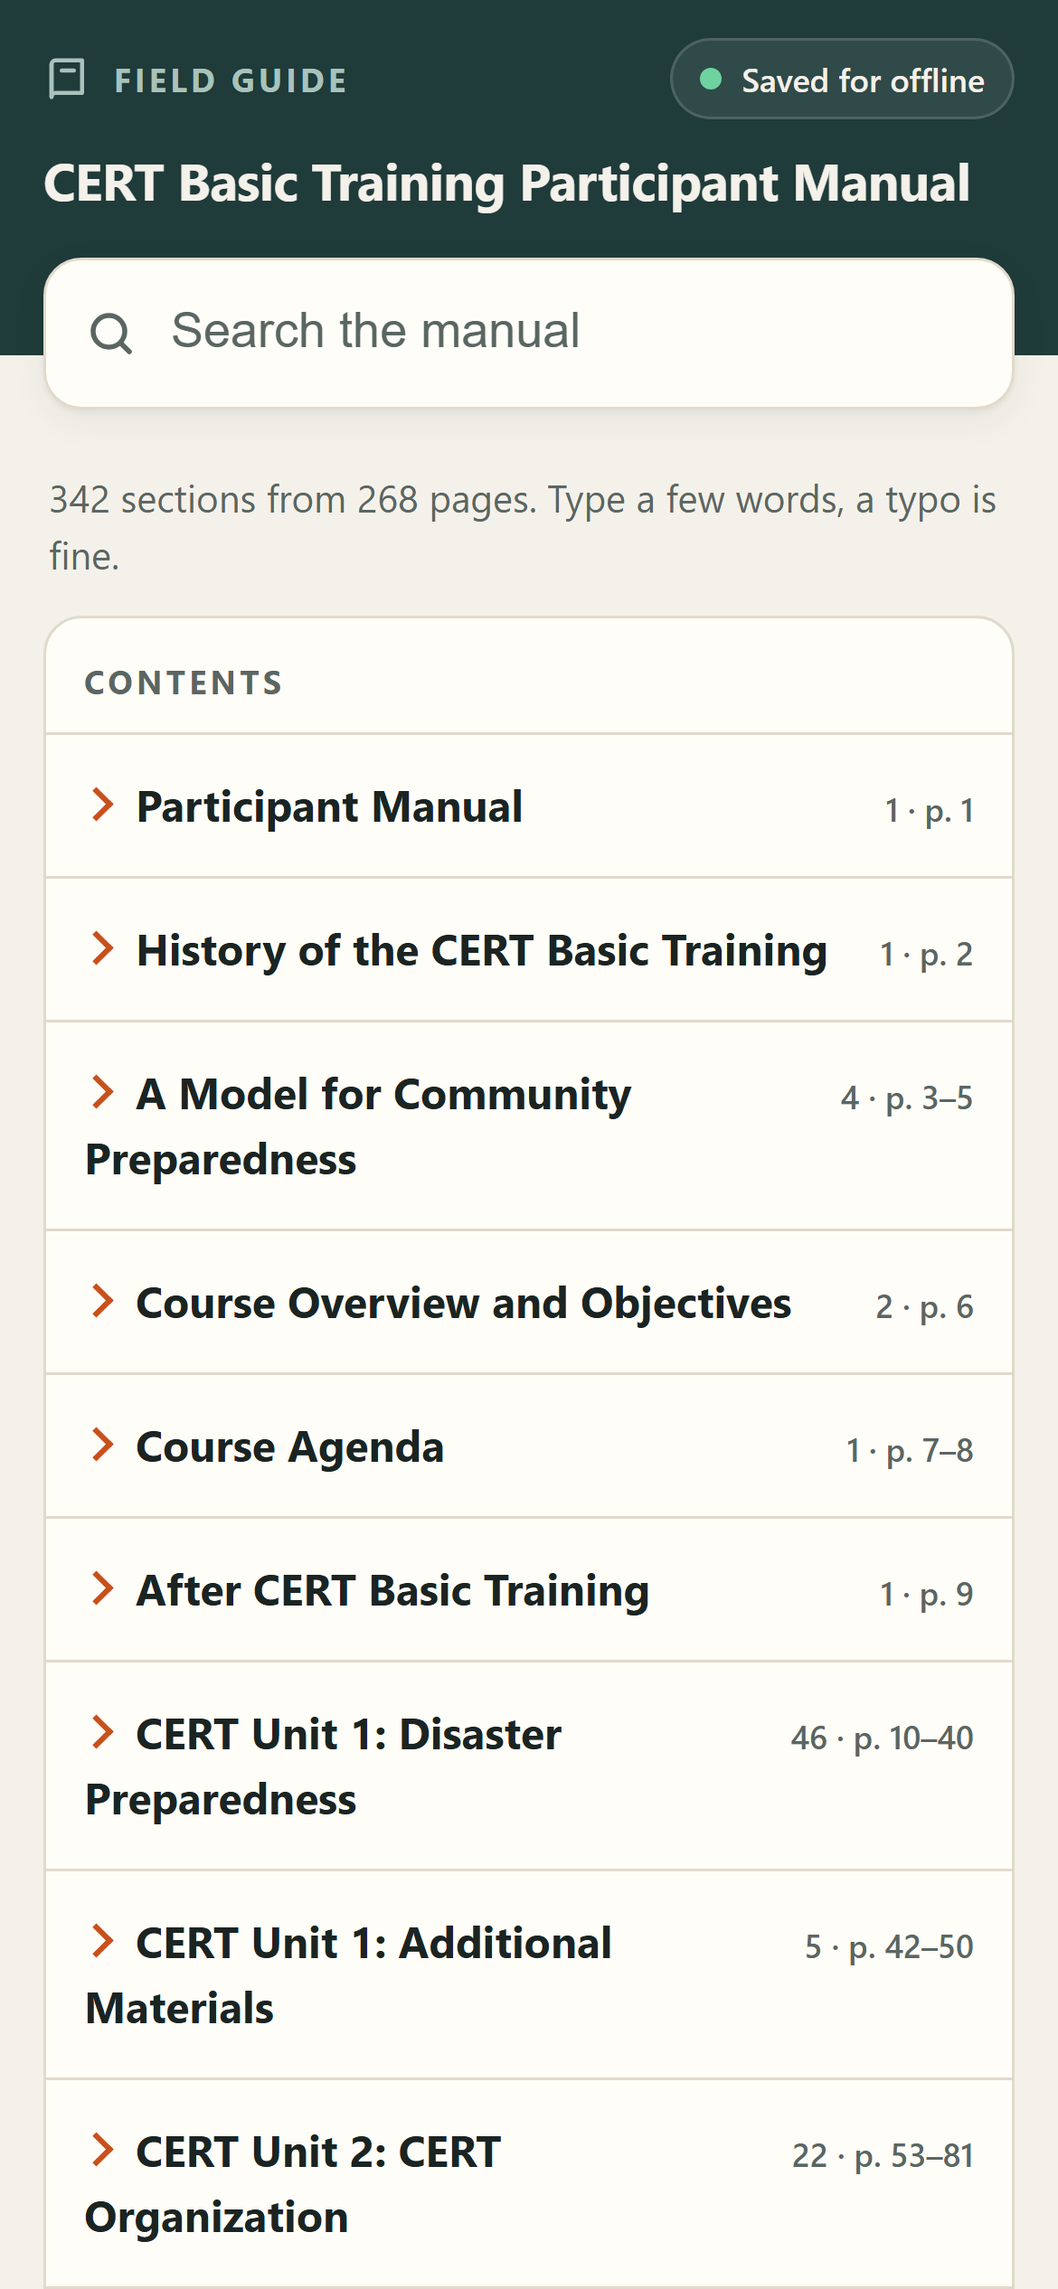
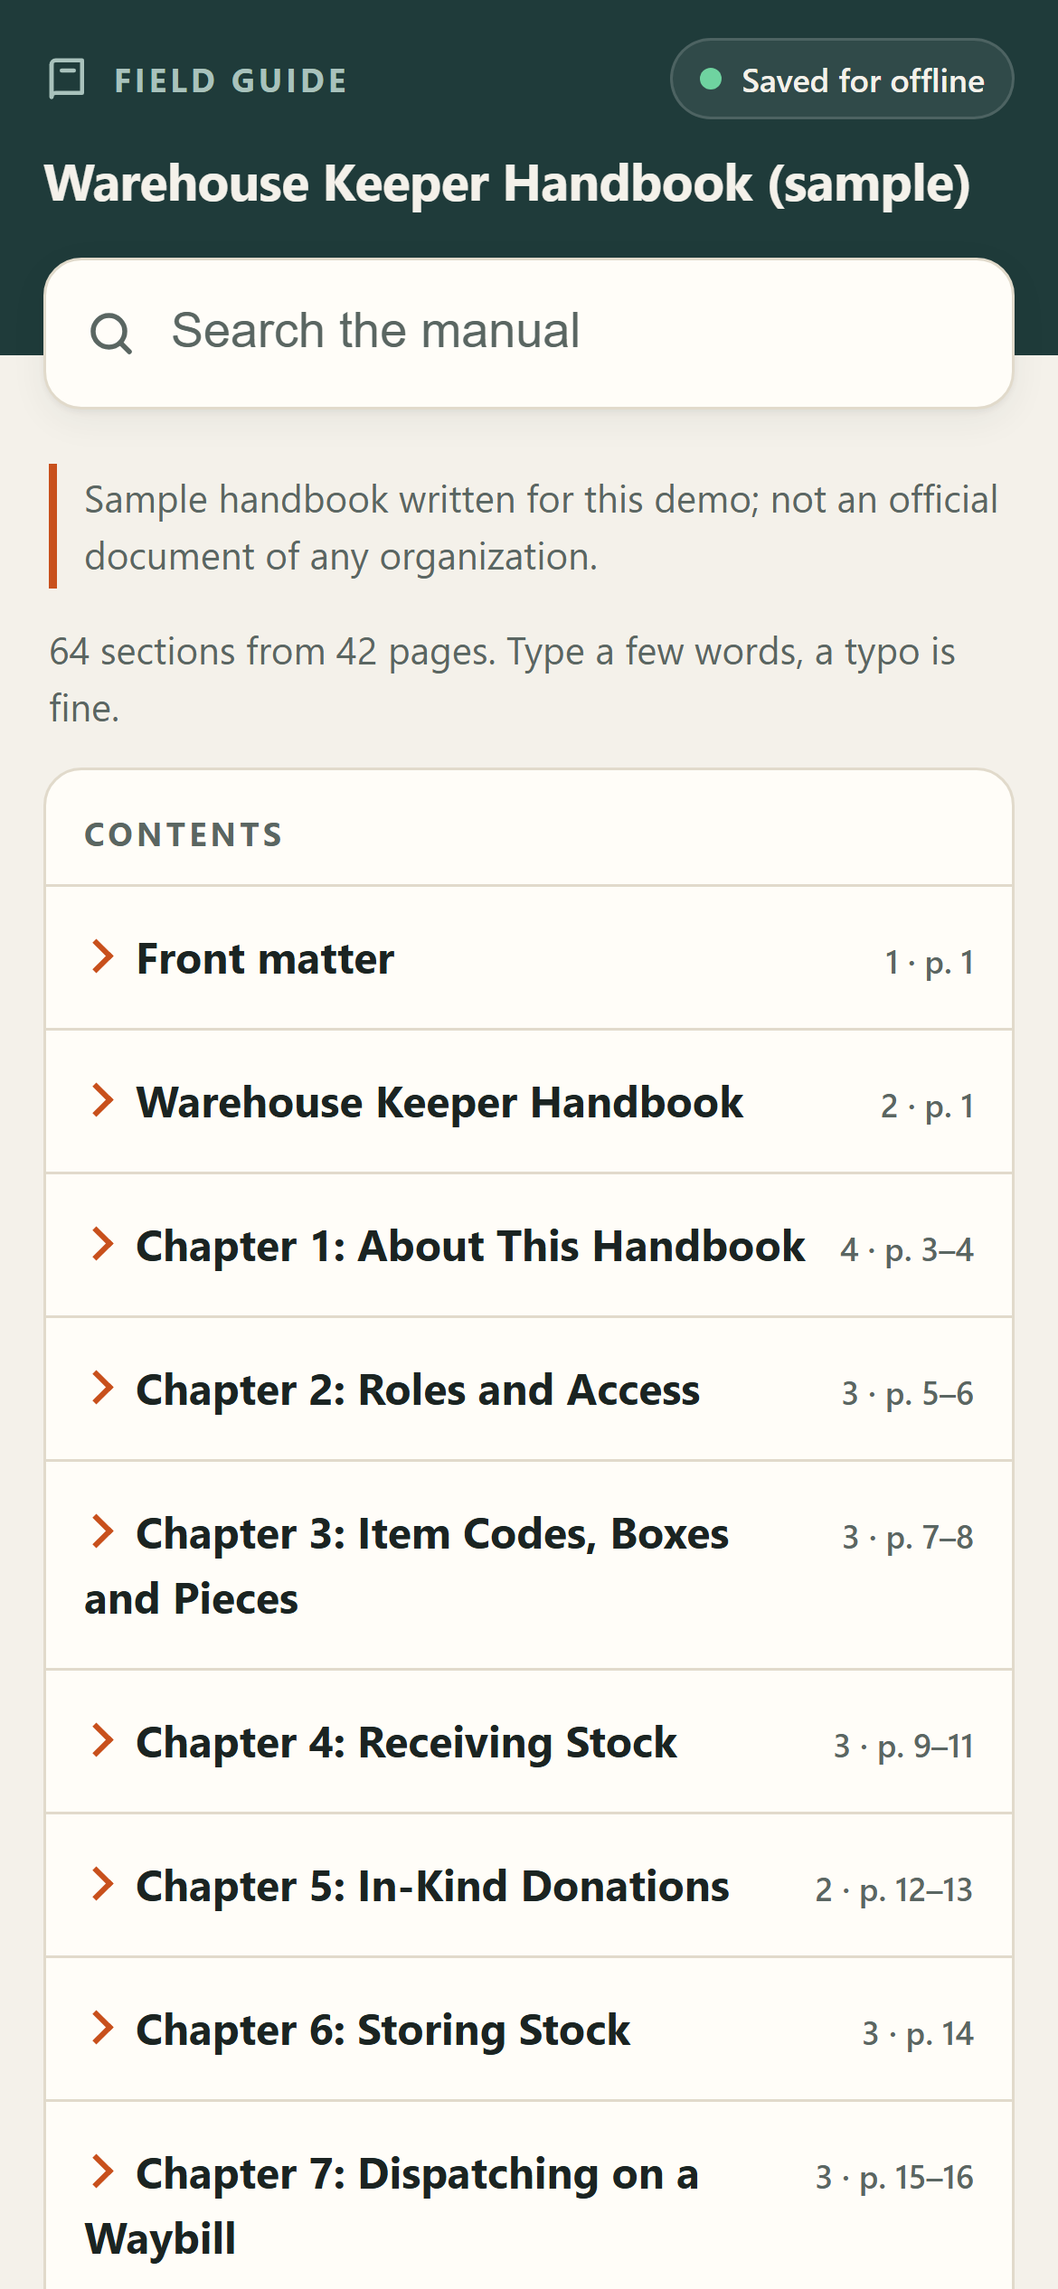
README, screenshots and outputs for the handbook demo; deterministic handbook PDF

diff --git a/handbook/make_handbook.py b/handbook/make_handbook.py
@@ -436,10 +436,11 @@ def build(out: Path = DEFAULT_OUT) -> dict:
     headers_footers(lay)
     lay.doc.set_toc(lay.toc)
     lay.doc.set_metadata({"title": "Warehouse Keeper Handbook (sample)", "author": "offline-field-guide demo",
-                          "subject": "Sample handbook written for a software demo; not an official document"})
+                          "subject": "Sample handbook written for a software demo; not an official document",
+                          "creationDate": "D:20261121000000Z", "modDate": "D:20261121000000Z"})
     out.parent.mkdir(parents=True, exist_ok=True)
     pages = lay.doc.page_count
-    lay.doc.save(str(out), garbage=3, deflate=True)
+    lay.doc.save(str(out), garbage=3, deflate=True, no_new_id=True)
     lay.doc.close()
     return {"pages": pages, "breaks": lay.breaks, "tables_at_top": lay.tables_at_top,
             "tables_split": lay.tables_split}

diff --git a/README.md b/README.md
@@ -2,61 +2,90 @@
 
 Give it a long PDF manual and it builds a searchable guide that keeps working on a phone with no connection.
 
-**Live demo:** https://tonihaddad.github.io/offline-field-guide/
+**Live demo:** https://tonihaddad.github.io/offline-field-guide/ (the sample handbook; the FEMA manual is one tap away at [`/cert/`](https://tonihaddad.github.io/offline-field-guide/cert/))
 
 <table>
 <tr>
-<td><img src="docs/results.png" width="250" alt="Search results for a misspelled query"></td>
-<td><img src="docs/section.png" width="250" alt="An opened section with highlighted terms and its source page"></td>
-<td><img src="docs/offline-search.png" width="250" alt="The same search working with the network off"></td>
+<td><img src="docs/results.png" width="250" alt="Search results for expired cans"></td>
+<td><img src="docs/section.png" width="250" alt="An opened procedure with highlighted terms and its source page"></td>
+<td><img src="docs/offline-search.png" width="250" alt="A misspelled search working with the network off"></td>
 </tr>
 <tr>
-<td>"turn of gass": typos are fine</td>
-<td>Opened section, terms highlighted, source page shown</td>
-<td>Same search with the network cut</td>
+<td>"expired cans"</td>
+<td>"damged box": the procedure, terms highlighted, source page shown</td>
+<td>"who aproves write off" with the network cut</td>
 </tr>
 </table>
 
-These are real screenshots of the guide built from the 268-page FEMA CERT
-Basic Training Participant Manual, at phone width. More in [`docs/`](docs/)
-(dark mode, the original-page view, the contents list).
+Real phone-width screenshots of the guide built from the sample Warehouse
+Keeper Handbook. More in [`docs/`](docs/): the contents list, the original-page
+view, dark mode, and the FEMA CERT manual guide.
 
 ## The need
 
-A field officer needs one instruction from a 200-page manual: how to shut
-off the gas, how many drops of bleach per gallon, how to apply a tourniquet.
-The manual is a PDF that is slow to open on a phone and has no useful search,
-and the connection is poor or gone. This tool turns the PDF into a small web
+A humanitarian organization in Lebanon runs about forty warehouses. Its
+warehouse keepers receive, store and dispatch relief stock, often with basic
+computer skills, a phone, and power and internet that come and go. The rules
+they must follow (goods received notes, waybills, FEFO, boxes and pieces,
+damage reports that need approval) sit in a long PDF that is slow to open on a
+phone and has no useful search. This tool turns such a PDF into a small web
 app that is saved on the phone the first time it is opened, then answers
 short, misspelled questions in milliseconds with no network at all.
 
+## The two demo manuals
+
+| Manual | Pages | Why it is here |
+|---|---|---|
+| **Warehouse Keeper Handbook (sample)**, `manuals/warehouse-keeper-handbook.pdf` | 42 | The main demo, close to the real work. **I wrote it for this demo; it is not an official document of any organization.** All names, codes and figures are invented. `handbook/make_handbook.py` builds it from `handbook/handbook.txt`. |
+| **FEMA CERT Basic Training Participant Manual (2019)**, `manuals/cert-basic-training-participant-manual.pdf` | 268 | Proof that the pipeline works on a real PDF it was not written for. |
+
+The handbook covers receiving under a goods received note, in-kind donations,
+dispatch on a waybill, FEFO, boxes and pieces, transfers, damage reports and
+write-off approval, stock counts, expiry and low-stock checks, the purchase
+order sheet, working when the connection drops, roles, emergency
+distributions, and a short French section. Its layout deliberately has what
+real manuals have: a cover, a contents page, running headers and "Page N of
+42" footers, a numbered procedure that runs over a page break, exception tables
+that start at the top of a page, and tables continued over pages with the
+header row repeated. The generator reports where these happen and the tests
+check that the extractor handles each one.
+
 ## Try it
 
-Python 3.11+ and nothing else (Node only for the benchmark).
+Python 3.11+ (Node only for the benchmark).
 
 ```
 python -m venv .venv
 .venv/Scripts/activate            # source .venv/bin/activate on Linux/macOS
 pip install -e .
-fieldguide build manuals/cert-basic-training-participant-manual.pdf --out site && fieldguide serve site
+fieldguide build manuals/warehouse-keeper-handbook.pdf --out site --related "FEMA CERT manual=cert/" && fieldguide build manuals/cert-basic-training-participant-manual.pdf --out site/cert --related "Handbook=../" && fieldguide serve site
 ```
 
-Real output (the build takes about 1.5 minutes on a laptop, most of it table detection):
+Real output (the CERT build takes about 1.5 minutes, mostly table detection):
 
 ```
+Read 42 pages from warehouse-keeper-handbook.pdf
+Sections:        64
+Index terms:     1,021
+sections.json:   58 KB
+index.json:      27 KB
+Total download:  133 KB in 10 files
+Wrote site
 Read 268 pages from cert-basic-training-participant-manual.pdf
 Sections:        342
 Index terms:     3,612
 sections.json:   412 KB
 index.json:      177 KB
-Total download:  637 KB in 10 files
-Wrote site
+Total download:  638 KB in 10 files
+Wrote site/cert
 Serving site at http://localhost:8101/
 ```
 
-Open http://localhost:8101/ once, then turn the network off. On a phone,
-"Add to home screen" installs it as an app. Add `--page-images` to include a
+Open http://localhost:8101/ and the CERT guide once each, then turn the
+network off. "Switch guide" on the home screen moves between them offline. On
+a phone, "Add to home screen" installs it. Add `--page-images` to include a
 low-resolution image of every page behind a "Show original page" button.
+`python handbook/make_handbook.py` regenerates the handbook PDF.
 
 ## How it works
 
@@ -65,7 +94,7 @@ manual.pdf
    |  PyMuPDF: text lines with font size/weight and position, tables, outline
    v
 extract.py    drop running headers, footers and page numbers
-   |          (same text in the top/bottom band on 3+ pages, or "Page 7-20")
+   |          (same text in the top/bottom band on 3+ pages, or "Page 7 of 42")
    v
 structure.py  headings from the PDF outline + font size/weight
    |          one section per heading; paragraphs, numbered steps, bullets
@@ -74,45 +103,56 @@ structure.py  headings from the PDF outline + font size/weight
 index.py      BM25 index built at build time (title words weighted x3)
    v
 site/         index.html, app.js, search.js, sw.js, manifest, data/*.json
-              [pages/p1.jpg ... with --page-images]
+site/cert/    a second guide, with its own service worker and cache
 ```
 
 | Part | What it does |
 |---|---|
-| Page breaks | Headers and footers are removed first, so the last line of page N meets the first line of page N+1. A step or paragraph that has not finished its sentence continues; "Step 6" after "Step 5" extends the same procedure. In the CERT manual the tourniquet steps (pages 102-103) and the 9-step size-up (pages 64-65) cross a page break and come out as one list. |
-| Tables | Found with PyMuPDF's table finder; their cells are kept out of the text flow, so a bold header row is never mistaken for a heading. A table at the top of the next page stays with its section, and a table split over two pages is merged with its repeated header row dropped. |
-| Search | `search.js`, about 180 lines of plain JavaScript, no dependencies. BM25 over the sections; each query word also matches words that start with it (0.8 weight) and, when nothing matches, words one typo away (two for long words). A section that matches every query word ranks higher. |
-| Offline | The service worker caches every file on first load (the list and a content hash are written in at build time) and serves from the cache afterwards. The status pill checks the cache and the server, so it says "Offline, saved copy" when it really is. |
-| Same tokenizer twice | Python builds the index and JavaScript queries it, so both tokenizers must agree. A test runs both on the same strings. |
+| Page breaks | Headers and footers are removed first, so the last line of page N meets the first line of page N+1. A step or paragraph that has not finished its sentence continues; step 6 after step 5 extends the same procedure. |
+| Tables | Found with PyMuPDF's table finder; their cells are kept out of the text flow, so a bold header row is never mistaken for a heading. A table at the top of the next page stays with its section, and a table split over pages is merged with its repeated header row dropped. |
+| Search | `search.js`, about 180 lines of plain JavaScript, no dependencies. BM25 over the sections; each query word also matches words that start with it and, when nothing matches, words one typo away (two for long words). Accents are ignored, so "reception" finds "réception". |
+| Offline | Each guide's service worker caches every file of that guide on first load and serves from the cache afterwards. Caches are named per guide, so the two guides on one site never delete each other's files. |
 
 ## Results
 
-`node bench/run_bench.js site` runs the shipped `search.js` under Node on 26
-lookups I wrote after reading the manual ([`bench/questions.json`](bench/questions.json)),
-each with the PDF page(s) that hold the answer. A hit means the opened section
-contains an answer page and is at most 6 pages long. Output of the last run:
+`node bench/run_bench.js <site> <questions>` runs the shipped `search.js`
+under Node. A hit means the opened section contains a page that holds the
+answer and is at most 6 pages long.
+
+| | Handbook (new) | FEMA CERT manual |
+|---|---|---|
+| Questions | 23 (20 English, 3 French) | 26 |
+| Top-1 accuracy | **17/23 (74%)** | 25/26 (96%), unchanged |
+| Top-3 accuracy | **20/23 (87%)** | 26/26 (100%), unchanged |
+| Index size | 27 KB (8 KB gzipped) | 177 KB (51 KB gzipped) |
+| Download, no page images | 134 KB, 10 files | 643 KB, 10 files |
+| Download, with page images | 1.04 MB, 52 files | 7.16 MB, 278 files |
+| Search time, median / p95 | 0.02 / 0.53 ms | 0.04 / 2.15 ms |
+
+How the handbook questions were made: I wrote both the handbook and its
+questions, so this is not an independent test. I wrote the 23 questions the
+way a keeper might type them (three misspelled, three in French) after writing
+the handbook and **before running any search on it**, each with a phrase from
+the handbook that answers it; `bench/resolve_pages.py` turns the phrases into
+page numbers. I did not change any rule or label after seeing the results. The
+CERT questions and engine are the same as in the first version, so its numbers
+did not change.
+
+Offline proof, `python scripts/offline_check.py` (Playwright, headless
+Chromium, phone viewport): it opens both guides online, cuts the network,
+reloads the handbook, searches and opens a result, then switches to the CERT
+guide with the network still off and does the same.
 
 ```
-Questions:            26
-Top-1 accuracy:       25/26 (96%)
-Top-3 accuracy:       26/26 (100%)
-Sections:             342 from 268 pages
-Index size:           177 KB (51 KB gzipped)
-Download, no images:  641 KB in 10 files (189 KB gzipped)
-Download, with images: 7.16 MB in 278 files (page images 6.53 MB)
-Search time:          median 0.02 ms, p95 0.78 ms (780 runs, Node v24.19.0)
-```
-
-Search time varies between runs (p95 was between 0.8 and 3.3 ms across my runs); queries
-with a typo are the slow ones because they scan the vocabulary.
-
-Offline proof, `python scripts/offline_check.py` (Playwright, headless Chromium,
-phone viewport): it loads the site, waits for the service worker, cuts the
-network, reloads, searches with typos and opens a result.
-
-```
-PASS  service worker active, 278 files cached
-PASS  page reloads with the network off
+PASS  /: service worker active, caches hold [52] files
+PASS  /cert/: service worker active, caches hold [52, 278] files
+PASS  / opens with the network off: 'Warehouse Keeper Handbook (sample)'
+PASS  status shows offline ('Offline · saved copy')
+PASS  a request outside the cache fails (really offline)
+PASS  search 'damged box' offline: 20 results, top: 'Terms Used in This Handbook'
+PASS  opened section 'Terms Used in This Handbook' with 6 highlighted terms
+PASS  shows the source page ('Page 33 of the original')
+PASS  /cert/ opens with the network off: 'CERT Basic Training Participant Manual'
 PASS  status shows offline ('Offline · saved copy')
 PASS  a request outside the cache fails (really offline)
 PASS  search 'shut of gass' offline: 20 results, top: 'Natural Gas Shutoff'
@@ -121,60 +161,61 @@ PASS  shows the source page ('Page 177 of the original')
 OFFLINE CHECK PASSED
 ```
 
-Tests: `pytest` runs 30 tests. The extraction tests build small PDFs with
-PyMuPDF (a procedure whose step 4 wraps onto the next page, running headers
-and "Page N" footers, a table of exceptions at the top of a page with a bold
-header row and a "Table 3" caption, a table split over two pages, a bullet
-glyph drawn apart from its text, an outline-only heading) and the search
-tests run the real `search.js` under Node.
+Tests: `pytest` runs 37 tests. The handbook tests regenerate the PDF and check
+that each procedure the layout put over a page break comes out as one list,
+that the exceptions table at the top of page 11 stays in "Problems at
+Receipt", that the 77-row item table split over pages 34 to 36 is one table with
+one header row, that no header or footer text leaks into sections, and that
+the committed question labels still match the PDF. Other tests build small
+PDFs for the same hard cases and run the real `search.js` under Node.
 
 ## Where it fails
 
-- **Questions the manual does not answer still get confident results.**
-  "drop cover hold" (earthquake advice the CERT manual does not contain)
-  returns "Guidelines for Treating Heat Burns" first, because "drop" matches
-  "drops" and "dropper". There is no "not in this manual" signal yet.
-- **Prefix matching adds noise for short words.** "radio" ranks "Nuclear
-  Attack" first: the prefix expands to "radioactive", which that section uses
-  many times, while the manual's few mentions of a radio sit in long kit lists.
-- **Exercises outrank instructions.** "recovery position" opens "Exercise 3.2:
-  Recovery Position" first; the section that explains the position is second.
-- **The benchmark is partly tuned.** I wrote the questions knowing the section
-  titles, so many match a title. The first run scored 24/26: "extinguisher
-  pass" missed because "P.A.S.S." was split into single letters. I fixed the
-  tokenizer after seeing that miss, so that question is no longer a blind test.
-- **Layout limits.** Forms and diagrams that are images (the CERT forms on
-  pages 83-91) have no text to index; scanned PDFs would need OCR, which this
-  does not do. Unit cover pages lose most of their text. "Page N" is the PDF
-  page number, not the manual's printed "Page 7-20" label.
+- **Glossary and appendices outrank the explanation.** "damged box" opens the
+  glossary first (the procedure is third); "unlock warehouse" opens the
+  warehouse list, where "Unlocked" appears 26 times; "short expiry donation"
+  opens a paper form.
+- **Different words for the same thing.** "less pieces than order" misses the
+  row "Fewer pieces than the purchase order": there is no synonym handling.
+- **Strict labels.** "recieve without po" and "balance negative" are counted
+  as misses, but their top results ("If a Delivery Arrives Without an Accepted
+  Purchase Order", "If the System Refuses a Paper Document") also answer the
+  question. I kept the labels I wrote before running the test.
+- **No Arabic.** The tokenizer only keeps Latin letters and digits, so Arabic
+  text is not indexed and Arabic queries find nothing. The handbook has no
+  Arabic section because the PDF fonts used here cannot shape Arabic. French
+  works through accent folding, without French stemming.
+- **No "not in this manual" signal.** On the CERT manual, "drop cover hold"
+  (advice it does not contain) returns heat-burn guidance first because "drop"
+  matches "drops". "radio" ranks "Nuclear Attack" first because the prefix
+  expands to "radioactive".
+- **Layout limits.** Forms and diagrams that are images have no text to index;
+  scanned PDFs would need OCR, which this does not do. "Page N" is the PDF page
+  number, not a printed label. Each guide must be opened once online before it
+  works offline.
 
 ## What I would add next
 
-- A confidence floor that says "not covered in this manual" instead of weak matches.
-- Read the printed page labels so "page 7-20" matches the paper copy.
-- An optional on-device or server LLM step that answers in one sentence and
-  cites the section; the retrieval here would be its source of truth.
+- A confidence floor that says "not covered in this manual", and a small synonym list per manual.
+- Arabic tokenization and an Arabic version of the handbook.
+- An optional LLM step that answers in one sentence and cites the section; the retrieval here would be its source of truth.
 
-## Publishing a live demo
+## Publishing the live demo
 
-`.github/workflows/pages.yml` builds the guide with page images and deploys it
-to GitHub Pages. It runs only when started by hand (Actions, "Publish demo to
-GitHub Pages", Run workflow) after the repo is public and Pages is set to
-"GitHub Actions". That is how the live link is enabled; it is not on yet.
+`.github/workflows/pages.yml` builds both guides with page images and deploys
+them to GitHub Pages when run by hand (`gh workflow run pages.yml`).
 
-## The sample manual and its licence
+## Licences
 
-`manuals/cert-basic-training-participant-manual.pdf` is the **CERT Basic
-Training Participant Manual (2019)**, downloaded from
+Code: MIT, see [LICENSE](LICENSE). The sample handbook is part of this repo
+and under the same licence; it is invented and not an official document of any
+organization.
+
+The CERT manual was downloaded from
 https://www.ready.gov/sites/default/files/2019.CERT_.Basic_.PM_FINAL_508c.pdf
[1 lines of base64/hex data omitted]
 It is a U.S. federal government work: the PDF's author field is "FEMA", it is
 published on ready.gov (a FEMA site), and its introduction says the National
 CERT Program Office produced the 2019 update. Works of the U.S. federal
-government are not subject to copyright in the United States (17 U.S.C. 105),
-so it is in the public domain there. I found no third-party copyright or
-permission notices in the document.
-
-## Licence
-
-Code: MIT, see [LICENSE](LICENSE). Sample manual: U.S. public domain, as above.
+government are not subject to copyright in the United States (17 U.S.C. 105).
+I found no third-party copyright or permission notices in it.
